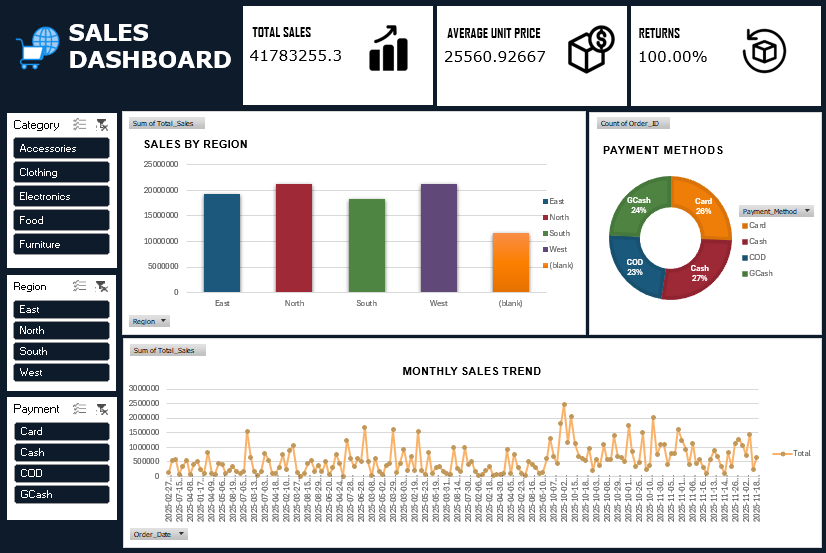
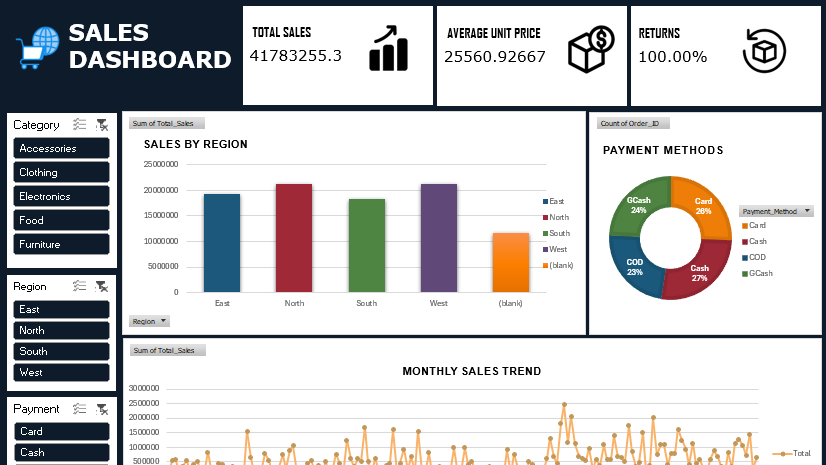
added projects

diff --git a/assets/js/project-data.js b/assets/js/project-data.js
@@ -1,4 +1,5 @@
 const projects = [
+  // Development
   {
     image: "assets/images/projects/idp/1.png",
     title: "ISAAC Internal Developer Platform",
@@ -45,7 +46,155 @@ const projects = [
     image: "assets/images/projects/sis/1.png",
     title: "Student Information System",
     category: "development",
-    description: "Web application to manange and store student data",
+    description:
+      "Simple CRUD Web application to manange and store student data",
     techStack: [{ name: "Laravel", icon: "laravel/laravel-original" }],
+  },
+  // Productivity
+  {
+    image: "assets/images/projects/productivity/dashboard.png",
+    title: "Interactive Business Dashboard",
+    category: "productivity",
+    description:
+      "E-Commerce Business Dashboard data preprocessing and visualization",
+    techStack: [
+      {
+        name: "Microsoft Excel",
+        icon: "assets/icons/microsoft-excel.svg",
+        local: true,
+      },
+    ],
+  },
+  {
+    image: "assets/images/projects/productivity/digital-marketing-ppt.png",
+    title: "Presentation",
+    category: "productivity",
+    description: "Simple presentation layout",
+    techStack: [
+      {
+        name: "Canva",
+        icon: "assets/icons/canva.svg",
+        local: true,
+      },
+    ],
+  },
+  {
+    image: "assets/images/projects/productivity/cloudnordic-ppt.png",
+    title: "Presentation",
+    category: "productivity",
+    description: "Simple presentation layout",
+    techStack: [
+      {
+        name: "Canva",
+        icon: "assets/icons/canva.svg",
+        local: true,
+      },
+    ],
+  },
+  {
+    image: "assets/images/projects/productivity/pestle-analysis-ppt.png",
+    title: "Presentation",
+    category: "productivity",
+    description: "Simple presentation layout",
+    techStack: [
+      {
+        name: "Canva",
+        icon: "assets/icons/canva.svg",
+        local: true,
+      },
+    ],
+  },
+  // Media
+  {
+    image: "assets/images/projects/digital/1.png",
+    title: "Cover Page",
+    category: "digital",
+    description: "Simple Travel Book Cover Page",
+    techStack: [
+      {
+        name: "Canva",
+        icon: "assets/icons/canva.svg",
+        local: true,
+      },
+    ],
+  },
+  {
+    image: "assets/images/projects/digital/6.png",
+    title: "Cover Page",
+    category: "digital",
+    description: "Simple Cover/Hero Page",
+    techStack: [
+      {
+        name: "Canva",
+        icon: "assets/icons/canva.svg",
+        local: true,
+      },
+    ],
+  },
+  {
+    image: "assets/images/projects/digital/2.png",
+    title: "Simple Poster",
+    category: "digital",
+    description: "",
+    techStack: [
+      {
+        name: "Canva",
+        icon: "assets/icons/canva.svg",
+        local: true,
+      },
+    ],
+  },
+  {
+    image: "assets/images/projects/digital/5.png",
+    title: "Infographic",
+    category: "digital",
+    description: "",
+    techStack: [
+      {
+        name: "Canva",
+        icon: "assets/icons/canva.svg",
+        local: true,
+      },
+    ],
+  },
+  {
+    image: "assets/images/projects/digital/7.png",
+    title: "Poster",
+    category: "digital",
+    description: "Digital marketing social media posts",
+    techStack: [
+      {
+        name: "Canva",
+        icon: "assets/icons/canva.svg",
+        local: true,
+      },
+    ],
+  },
+  {
+    image: "assets/images/projects/digital/3.png",
+    title: "Brochure",
+    category: "digital",
+    description: "",
+    techStack: [
+      {
+        name: "Canva",
+        icon: "assets/icons/canva.svg",
+        local: true,
+      },
+    ],
+  },
+
+  {
+    image: "assets/images/projects/digital/4.png",
+    title: "Educational Pamphlet",
+    category: "digital",
+    description: "",
+    techStack: [
+      {
+        name: "Canva",
+        icon: "assets/icons/canva.svg",
+        local: true,
+      },
+    ],
   },
 ];

diff --git a/project.html b/project.html
@@ -46,14 +46,14 @@
           <div class="projects-grid" id="dev-grid"></div>
 
           <div class="header">
-            <p>Productivity</p>
+            <p class="title">Productivity</p>
           </div>
           <div class="projects-grid" id="productivity-grid"></div>
 
           <div class="header">
-            <p>Design & Content</p>
+            <p class="title">Design & Content</p>
           </div>
-          <div class="projects-grid" id="design-grid"></div>
+          <div class="projects-grid" id="digital-grid"></div>
         </div>
       </div>
     </main>
@@ -64,6 +64,10 @@
       renderProjects(
         "dev-grid",
         projects.filter((p) => p.category === "development"),
+      );
+      renderProjects(
+        "productivity-grid",
+        projects.filter((p) => p.category === "productivity"),
       );
       renderProjects(
         "digital-grid",

diff --git a/assets/js/project-render.js b/assets/js/project-render.js
@@ -1,3 +1,10 @@
+// Check icon if local or online
+function getIcon(tech) {
+  return tech.local
+    ? tech.icon
+    : `https://cdn.jsdelivr.net/gh/devicons/devicon@v2.17.0/icons/${tech.icon}.svg`;
+}
+// Creates Card
 function renderProjectCard(project) {
   const card = document.createElement("div");
   card.className = "card";
@@ -14,7 +21,7 @@ function renderProjectCard(project) {
         ${project.techStack
           .map(
             (tech) =>
-              `<img src="https://cdn.jsdelivr.net/gh/devicons/devicon@v2.17.0/icons/${tech.icon}.svg" alt="${tech.name}" title="${tech.name}" class="tech-icon" />`,
+              `<img src="${getIcon(tech)}" alt="${tech.name}" title="${tech.name}" class="tech-icon" />`,
           )
           .join("")}
       </div>

diff --git a/assets/css/style.css b/assets/css/style.css
@@ -194,6 +194,9 @@ body {
   opacity: 0;
   transition: opacity 0.5s ease;
 }
+.title {
+  margin-top: 5rem;
+}
 .card__content {
   padding: 1.25em;
   height: 100%;
@@ -324,7 +327,7 @@ table {
   margin-bottom: 3rem;
 }
 .skills-section > p {
-  font-size: 1.8rem;
+  font-size: 1.9rem;
   font-weight: 300;
   margin-bottom: 1rem;
 }
